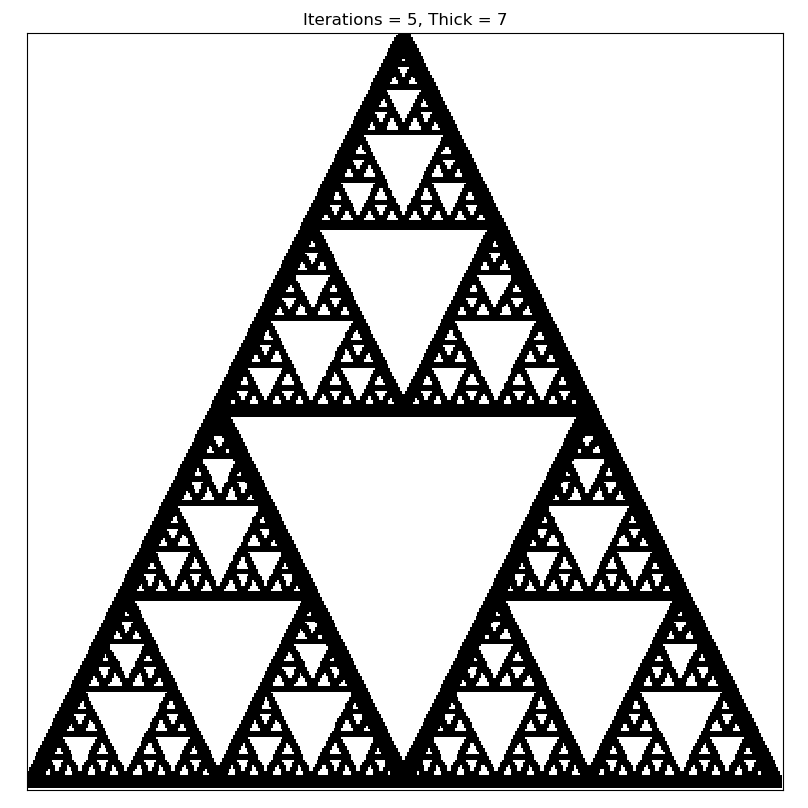
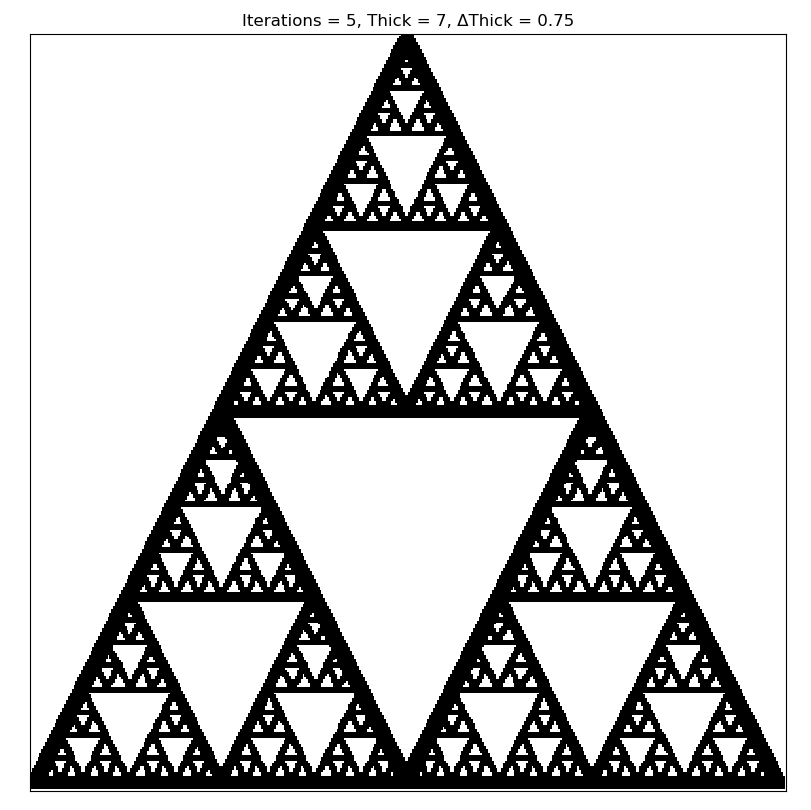
updated output header

diff --git a/sierpinski-triangle/sierpinski.py b/sierpinski-triangle/sierpinski.py
@@ -52,5 +52,5 @@ iterate(base_triangle, thick, curr_iter)
 
 # show image
 plt.plot(), plt.imshow(cv2.cvtColor(img, cv2.COLOR_BGR2RGB))
-plt.title('Iterations = {}, Thick = {}'.format(num_iter, thick)), plt.xticks([]), plt.yticks([])
+plt.title('Iterations = {}, Thick = {}, \u0394Thick = {}'.format(num_iter, thick, dt)), plt.xticks([]), plt.yticks([])
 plt.show()
